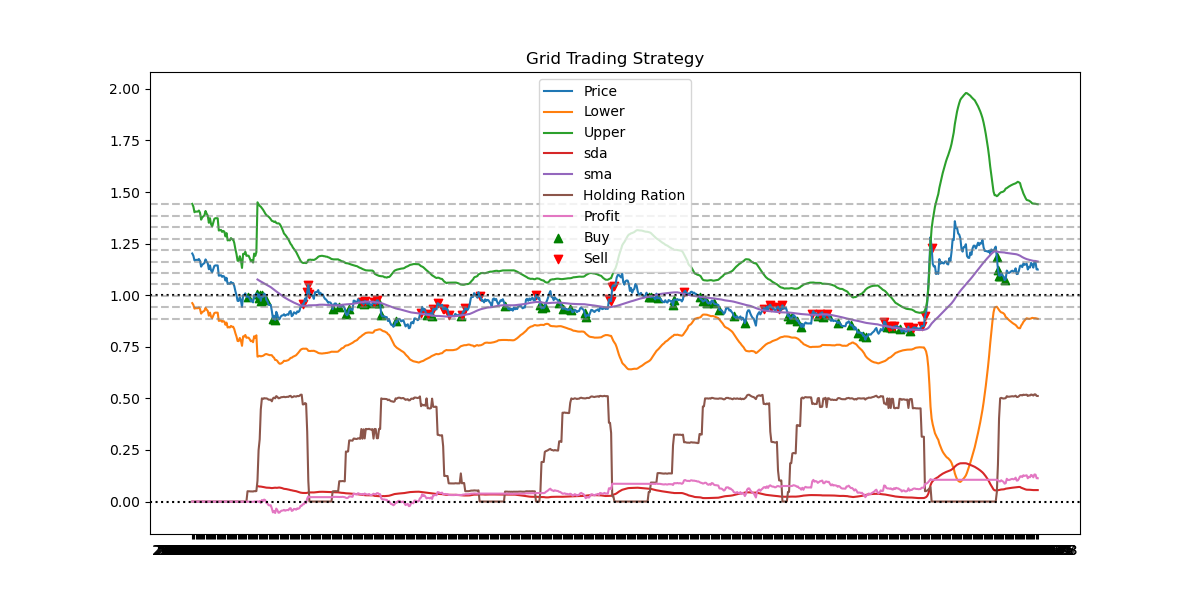
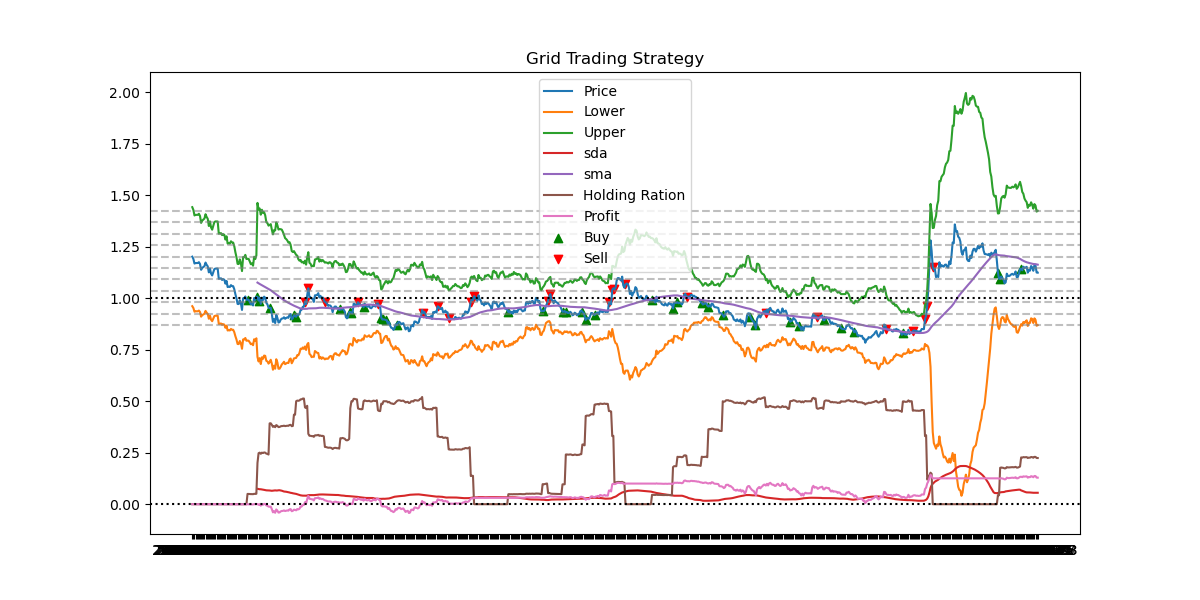
tt

diff --git a/ayaa/utils/perf.py b/ayaa/utils/perf.py
@@ -17,14 +17,16 @@ def calculate_bollinger_bands(data, window=20, num_std=2, price_col='close', fil
 
     # 计算中轨（移动平均）
     df['sma'] = df[price_col].rolling(window=window).mean()
+    df['sma5'] = df[price_col].rolling(window=5).mean()
+    df['sbc5'] = 1*(df[price_col] - df['sma5'])
 
     # 计算标准差
     df['sda'] = df[price_col].rolling(window=window).std()
     rolling_std = df[price_col].rolling(window=window).std()
 
     # 计算上下轨
-    df['upper_band'] = df['sma'] + (rolling_std * num_std)
-    df['lower_band'] = df['sma'] - (rolling_std * num_std)
+    df['upper_band'] = df['sma'] + (rolling_std * num_std) + df['sbc5']
+    df['lower_band'] = df['sma'] - (rolling_std * num_std) + df['sbc5']
 
     if fill_na:
         fill_d = pd.DataFrame({
